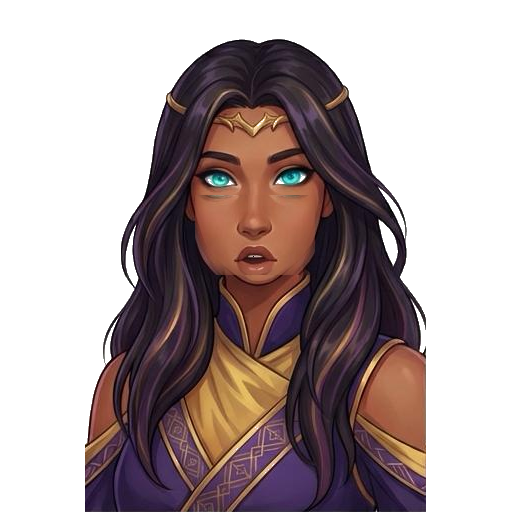
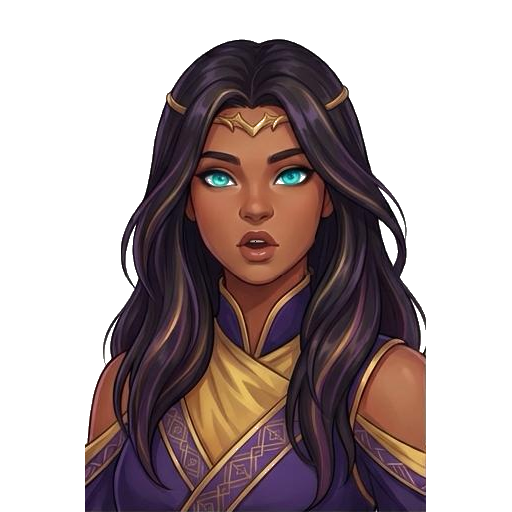
Fix: Align mouth positions across all frames, remove thinking/blink animations

Changed region(s): [[0.375, 0.4062, 0.625, 0.5625], [0.375, 0.375, 0.4375, 0.4062], [0.5625, 0.375, 0.5938, 0.4062]]

diff --git a/src/lib/avatar-engine.ts b/src/lib/avatar-engine.ts
@@ -73,10 +73,7 @@ export function preloadAvatarFrames(): void {
 
 // ── State-based getters ────────────────────────────────────────
 export function getIdleFrame(tick: number): string {
-  // Subtle blink: occasionally show B (barely parted) 
-  const blinkCycle = 40 + (tick % 10);
-  const isBlinking = tick % blinkCycle < 2;
-  return isBlinking ? FRAMES.B : FRAMES.A;
+  return FRAMES.A;
 }
 
 export function getListeningFrame(): string {
@@ -84,8 +81,7 @@ export function getListeningFrame(): string {
 }
 
 export function getThinkingFrame(tick: number): string {
-  const phase = tick % 40;
-  return phase < 20 ? FRAMES.A : FRAMES.E;
+  return FRAMES.A;
 }
 
 export function getFrameForState(state: AvatarState, tick: number): string {

diff --git a/src/components/AvatarModal.tsx b/src/components/AvatarModal.tsx
@@ -30,8 +30,7 @@ export default function AvatarModal() {
       hasGreeted.current = true;
       
       setTimeout(async () => {
-        // Show thinking state while API processes
-        useVelyraStore.setState({ avatarState: "thinking" });
+        // Stay idle while loading — no thinking animation before greeting
         
         try {
           const lipsyncResponse = await fetch("/api/lipsync", {
